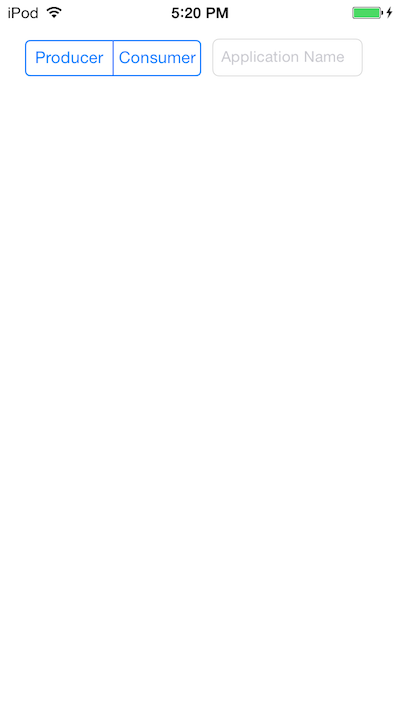
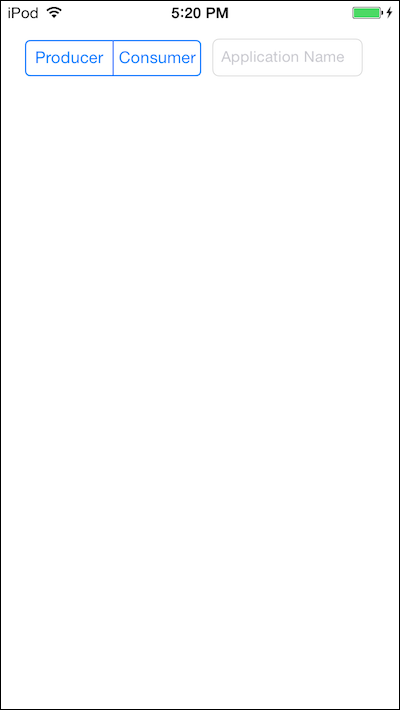
ASABASE-668 Documentation and Process for
... Notification Samples
clean up spelling mistakes and rephrased some sentences
add additional tips and information about other features of the
  notification sample app for android
update screenshots
add install process and path to notification sample apk. rephrase
  steps
update android notification copy to reflect that of the ios equivalent
update linux notification sample to include example output
add border to ios notification app screenshots
minor cleanup changes
update scripts, paths and output in base thin notification sample
  guide
fix use of wrong environment variable in path

Changed region(s): [[0.0, 0.0, 1.0, 1.0], [0.0, 0.0, 0.03, 0.031]]

diff --git a/docs/develop/run-sample-apps/notification/linux.md b/docs/develop/run-sample-apps/notification/linux.md
@@ -11,22 +11,103 @@ export AJ_ROOT=`pwd`
 
 # <TARGET CPU> can be either x86_64, x86, or whatever value you set for "CPU=" when running SCons.
 export TARGET_CPU=x86
-            
-export LD_LIBRARY_PATH=$AJ_ROOT/core/alljoyn/build/linux/$TARGET_CPU/debug/dist/cpp/lib:$AJ_ROOT/core/alljoyn/build/linux/$TARGET_CPU/debug/dist/about/lib:$AJ_ROOT/core/alljoyn/build/linux/$TARGET_CPU/debug/dist/notification/lib:$AJ_ROOT/core/alljoyn/build/linux/$TARGET_CPU/debug/dist/services_common/lib:$LD_LIBRARY_PATH
+
+CPP_LIB=$AJ_ROOT/core/alljoyn/build/linux/$TARGET_CPU/debug/dist/cpp/lib
+NOTIFICATION_LIB=$AJ_ROOT/core/alljoyn/build/linux/$TARGET_CPU/debug/dist/notification/lib
+SERVICES_COMMON_LIB=$AJ_ROOT/core/alljoyn/build/linux/$TARGET_CPU/debug/dist/services_common/lib
+
+export LD_LIBRARY_PATH=$CPP_LIB:$NOTIFICATION_LIB:$SERVICES_COMMON_LIB:$LD_LIBRARY_PATH
+```
+
+### Run the ProducerBasic Sample App
+
+In one of the terminal windows, run `ProducerBasic`:
+
+```sh
+$AJ_ROOT/core/alljoyn/build/linux/$TARGET_CPU/debug/dist/notification/bin/ProducerBasic
+```
+
+The output from `ProducerBasic` should look like this:
+```
+$AJ_ROOT/core/alljoyn/build/linux/$TARGET_CPU/debug/dist/notification/bin/ProducerBasic
+lstat: No such file or directory
+   0.210 TRACE    Notification external         .../NotificationService.cc:62 | NotificationService::initSend
+   0.210 TRACE    Notification external         ...n/cpp/src/Transport.cc:175 | Transport::startSenderTransport
+   0.211 TRACE    Notification external         ...n/cpp/src/Transport.cc:414 | Transport::cleanupNotificationProducerReceiverInternal start
+   0.211 TRACE    Notification external         ...n/cpp/src/Transport.cc:420 | Transport::cleanupNotificationProducerReceiverInternal end
+   0.211 TRACE    Notification external         ...n/cpp/src/Transport.cc:527 | Transport::cleanupNotificationProducerSender start
+   0.211 TRACE    Notification external         ...ionProducerReceiver.cc:106 | NotificationProducerReceiver::ReceiverThreadWrapper()
+   0.212 DEBUG    Notification external         ...n/cpp/src/Transport.cc:222 | Transport::startSenderTransport - registered NotificationProducerReceiver successfully.
+   0.213 DEBUG    Notification external         ...n/cpp/src/Transport.cc:237 | bind Session Port successfully for notification producer service
+   0.213 TRACE    Notification external         ...n/cpp/src/Transport.cc:459 | Transport::cleanupNotificationDismisserReceiverInternal start
+   0.213 TRACE    Notification external         ...n/cpp/src/Transport.cc:465 | Transport::cleanupNotificationDismisserReceiverInternal end
+   0.213 DEBUG    Notification external         ...ationDismisserSender.cc:47 | NotificationDismisserSender()  - Got objectpath=/notificationDismisser
+   0.213 TRACE    Notification external         ...n/cpp/src/Transport.cc:260 | Started Sender successfully
+   0.214 TRACE    Notification external         ...c/NotificationSender.cc:51 | Send Message called
+   0.214 DEBUG    Notification external         .../src/PayloadAdapter.cc:424 | Attempting to send messageId: 1879962717
+   0.215 DEBUG    Notification external         ...ionTransportProducer.cc:65 | Sent signal successfully
+   0.215 HL_DBG   Notification external         .../src/PayloadAdapter.cc:429 | Message sent successfully with messageId: 1879962717
+Notification sent!
+Hit Ctrl+C to exit the application
 ```
 
 ### Run the ConsumerService Sample App
 
-In one of the terminal windows, run `ConsumerService`:
+In the other terminal window, run `ConsumerService`:
 
 ```sh
 $AJ_ROOT/core/alljoyn/build/linux/$TARGET_CPU/debug/dist/notification/bin/ConsumerService
 ```
 
-### Run the ProducerBasic Sample App
+The output from `ConsumerService` should look like this:
+```
+$AJ_ROOT/core/alljoyn/build/linux/$TARGET_CPU/debug/dist/notification/bin/ConsumerService
+Begin Consumer Application. (Press CTRL+C to end application)
+Enter in a list of app names (separated by ';') you would like to receive notifications from.
+Empty list means all app names.
 
-In the other terminal window, run `ProducerBasic`:
+1.408 DEBUG    Notification external         ...NotificationService.cc:208 | Init receive
+1.408 DEBUG    Notification external         ...ionTransportConsumer.cc:73 | Registered the SignalHandler successfully
+1.408 DEBUG    Notification external         ...n/cpp/src/Transport.cc:292 | Match String is: type='signal',sessionless='t',interface='org.alljoyn.Notification'
+1.409 TRACE    Notification external         ...n/cpp/src/Transport.cc:414 | Transport::cleanupNotificationProducerReceiverInternal start
+1.409 TRACE    Notification external         ...n/cpp/src/Transport.cc:420 | Transport::cleanupNotificationProducerReceiverInternal end
+1.410 TRACE    Notification external         ...ionDismisserReceiver.cc:42 | NotificationDismisserReceiver::NotificationDismisserReceiver() - called()
+1.410 DEBUG    Notification external         ...ionDismisserReceiver.cc:79 | Registered the SignalHandler successfully
+1.410 DEBUG    Notification external         ...n/cpp/src/Transport.cc:333 | NotificationDismisserReceiver Match String is: type='signal',sessionless='t',interface='org.alljoyn.Notification.Dismisser'
+1.413 TRACE    Notification external         ...n/cpp/src/Transport.cc:459 | Transport::cleanupNotificationDismisserReceiverInternal start
+1.413 TRACE    Notification external         ...n/cpp/src/Transport.cc:465 | Transport::cleanupNotificationDismisserReceiverInternal end
+1.413 DEBUG    Notification external         ...ationDismisserSender.cc:47 | NotificationDismisserSender()  - Got objectpath=/notificationDismisser
+1.413 DEBUG    Notification external         ...n/cpp/src/Transport.cc:364 | Started Receiver successfully
+Waiting for notifications.
+1.679 ****** ERROR IPNS    IpNameServiceImpl .../IpNameServiceImpl.cc:7650 | Ignoring advertisement from 192.168.1.93 for 192.168.2.136 received on en0: ER_WARNING
+1.976 ****** ERROR IPNS    IpNameServiceImpl .../IpNameServiceImpl.cc:7650 | Ignoring advertisement from 192.168.1.93 for 192.168.2.136 received on en0: ER_WARNING
+1.977 ****** ERROR IPNS    IpNameServiceImpl .../IpNameServiceImpl.cc:7650 | Ignoring advertisement from 192.168.1.93 for 192.168.2.136 received on en0: ER_WARNING
+1.978 ****** ERROR IPNS    IpNameServiceImpl .../IpNameServiceImpl.cc:7650 | Ignoring advertisement from 192.168.1.93 for 192.168.2.136 received on en0: ER_WARNING
+2.474 DEBUG    Notification lepDisp1_1       ...ionTransportConsumer.cc:84 | Received Message from producer.
+******************** Begin New Message Received ********************
+Message Id: 1814180121
+Device Id: ProducerBasic
+Device Name: ProducerBasic
+App Id: 30464642393946452D374141382D3432
+App Name: DISPLAY_ALL
+Sender BusName: :_FVRAlI2.2
+Message Type 0 emergency
+Notification version: 2
+Language: en  Message: hello world
+Other parameters included:
+OriginalSender: :_FVRAlI2.2
+******************** End New Message Received ********************
 
-```sh
-$AJ_ROOT/core/alljoyn/build/linux/$TARGET_CPU/debug/dist/notification/bin/ProducerBasic
+Notification action (0-Nothing 1-Dismiss):
+2.910 ****** ERROR IPNS    IpNameServiceImpl .../IpNameServiceImpl.cc:7650 | Ignoring advertisement from 192.168.1.93 for 192.168.2.136 received on en0: ER_WARNING
+3.207 ****** ERROR IPNS    IpNameServiceImpl .../IpNameServiceImpl.cc:7650 | Ignoring advertisement from 192.168.1.93 for 192.168.2.136 received on en0: ER_WARNING
+3.208 ****** ERROR IPNS    IpNameServiceImpl .../IpNameServiceImpl.cc:7650 | Ignoring advertisement from 192.168.1.93 for 192.168.2.136 received on en0: ER_WARNING
+3.511 ****** ERROR IPNS    IpNameServiceImpl .../IpNameServiceImpl.cc:7650 | Ignoring advertisement from 192.168.1.93 for 192.168.2.136 received on en0: ER_WARNING
+5.355 ****** ERROR IPNS    IpNameServiceImpl .../IpNameServiceImpl.cc:7650 | Ignoring advertisement from 192.168.1.93 for 192.168.2.136 received on en0: ER_WARNING
+5.362 ****** ERROR IPNS    IpNameServiceImpl .../IpNameServiceImpl.cc:7650 | Ignoring advertisement from 192.168.1.93 for 192.168.2.136 received on en0: ER_WARNING
+5.363 ****** ERROR IPNS    IpNameServiceImpl .../IpNameServiceImpl.cc:7650 | Ignoring advertisement from 192.168.1.93 for 192.168.2.136 received on en0: ER_WARNING
+5.364 ****** ERROR IPNS    IpNameServiceImpl .../IpNameServiceImpl.cc:7650 | Ignoring advertisement from 192.168.1.93 for 192.168.2.136 received on en0: ER_WARNING
+0
+Nothing planed to do with the notification message id:1814180121
+End handling notification!!!
 ```

diff --git a/docs/develop/run-sample-apps/notification/thin-linux.md b/docs/develop/run-sample-apps/notification/thin-linux.md
@@ -13,77 +13,45 @@
    # <TARGET CPU> can be either x86_64, x86, or whatever value you set for CPU= when running SCons.
    export TARGET_CPU=<TARGET CPU>
    cd $AJ_ROOT/core/alljoyn/build/linux/$TARGET_CPU/release/dist/cpp/bin
+   
+   BASE_THIN_DIST_LIB=$AJ_ROOT/services/base_tcl/dist/lib
+   CORE_THIN_DIST_LIB=$AJ_ROOT/core/ajtcl/dist/lib
 
-   export LD_LIBRARY_PATH=`pwd`/../lib:$LD_LIBRARY_PATH
+   export LD_LIBRARY_PATH=`pwd`/../lib:$BASE_THIN_DIST_LIB:$CORE_THIN_DIST_LIB:$LD_LIBRARY_PATH
    # This sets the library path to load the liballjoyn.so shared library.
 
     ./alljoyn-daemon &
     ```
 
-3. Launch NotificationConsumerSample (in a new terminal).
+3. Launch NotificationConsumerSample (in a new terminal). Ensure LD_LIBRARY_PATH is set as above.
 
    ```sh
-   cd $AJ_ROOT/services/sample_apps/build/
+   cd $AJ_ROOT/services/base_tcl/build/release/samples
    ./NotificationConsumerSample
    ```
 
-4. Launch NotificationProducerSample (in a new terminal).
+4. Launch NotificationProducerSample (in a new terminal). Ensure LD_LIBRARY_PATH is set as above.
 
    ```sh
-   cd $AJ_ROOT/services/sample_apps/build/
+   cd $AJ_ROOT/services/base_tcl/build/release/samples
    ./NotificationProducerSample
    ``` 
 
-The output from NotificationProducerSample should look like this:
-
-```
-./NotificationProducerSample 
-000.000 PropertyStore.c:201 Set key [DeviceId] defaultValue [e7471a6ad4761b17ad169a3146fe6d1a]
-000.000 PropertyStore.c:148 Has key [DeviceName] default Value []
-000.000 PropertyStore.c:201 Set key [DeviceName] defaultValue [COMPANY GENERIC BOARD 6fe6d1a]
-000.000 PropertyStore.c:144 Has key [DeviceName] runtime Value [COMPANY GENERIC BOARD 6fe6d1a]
-Attempting to connect to bus 'org.alljoyn.BusNode'
-Connected to Routing Node with BusUniqueName=:yEmGBABV.3
-001.084 NotificationProducer.c:512 In SendNotification
-001.084 PropertyStore.c:144 Has key [DeviceId] runtime Value [e7471a6ad4761b17ad169a3146fe6d1a]
-001.084 PropertyStore.c:148 Has key [DefaultLanguage] default Value [en]
-001.084 PropertyStore.c:144 Has key [DeviceName] runtime Value [COMPANY GENERIC BOARD 6fe6d1a]
-001.084 PropertyStore.c:144 Has key [AppId] runtime Value [e7471a6ad4761b17ad169a3146fe6d1a]
-001.084 PropertyStore.c:148 Has key [AppName] default Value [Notifier]
-001.084 NotificationProducer.c:560 Generating random number for notification id
-001.084 NotificationProducer.c:481 In SendNotifySignal
-001.084 NotificationProducer.c:493 ***************** Notification id 860073951 delivered successfully with serial number 5 *****************
-AllJoyn disconnect
-```
+   This won't produce output (run the sample from ```$AJ_ROOT/services/base_tcl/build/debug/samples``` for output)
 
 The output from NotificationConsumerSample should look like this:
 
 ```
 ./NotificationConsumerSample 
-Attempting to connect to bus 'org.alljoyn.BusNode'
-Connected to Routing Node with BusUniqueName=:yEmGBABV.2
-000.000 NotificationConsumer.c:167 In SetSignalRules()
-000.000 NotificationConsumer.c:168 Adding Dismisser interface match.
-000.000 NotificationConsumer.c:176 Adding Notification interface match.
-000.000 NotificationConsumer.c:208 Adding Superagent interface match.
-000.099 aj_msg.c:1087 Discarding bad message AJ_ERR_NO_MATCH
-000.136 aj_msg.c:1087 Discarding bad message AJ_ERR_NO_MATCH
-000.136 aj_msg.c:1087 Discarding bad message AJ_ERR_NO_MATCH
-024.480 NotificationConsumer.c:749 Received Producer signal.
-024.480 NotificationConsumer.c:287 Received notification signal from sender :yEmGBABV.3
-024.480 aj_msg.c:1195 AJ_UnmarshalMsg(): AJ_ERR_NO_MORE
-024.480 aj_msg.c:1195 AJ_UnmarshalMsg(): AJ_ERR_NO_MORE
-024.480 aj_msg.c:1195 AJ_UnmarshalMsg(): AJ_ERR_NO_MORE
-024.480 aj_msg.c:1195 AJ_UnmarshalMsg(): AJ_ERR_NO_MORE
 ******************** Begin New Message Received ********************
-Message Id: 860073951
+Message Id: 1000189632
 Version: 2
-Device Id: e7471a6ad4761b17ad169a3146fe6d1a
-Device Name: COMPANY GENERIC BOARD 6fe6d1a
-App Id: BC096200000000001F01000003000000
-App Name: Notifier
+Device Id: 1609870266dc3e02f926ef98623b5126
+Device Name: COMPANY GENERIC BOARD 23b5126
+App Id: 1609870266DC3E02F926EF98623B5126
+App Name: Company A(EN)
 Message Type: 2
-OriginalSender bus unique name: :yEmGBABV.3
+OriginalSender bus unique name: :qWt-d9Uz.3
 Language: en  Message: Hello AJ World.
 Language: de-AT  Message: Hallo AJ Welt.
 Other parameters included:
@@ -97,8 +65,6 @@ Language: de-AT  Audio URL http://www.getAudio2.org
 Rich Content Icon Object Path: /icon/MyDevice
 Rich Content Audio Object Path: /audio/MyDevice
 ******************** End New Message Received ********************
-036.490 aj_guid.c:76 LookupName(): NULL
-036.491 aj_guid.c:76 LookupName(): NULL
 ```
 
 [build-thin-linux]: /develop/building/thin-linux

diff --git a/docs/develop/run-sample-apps/notification/android.md b/docs/develop/run-sample-apps/notification/android.md
@@ -1,20 +1,36 @@
 # Android - Notification Sample Apps
 
 ## Running Android NotificationServiceUISample
+
+### Prerequisites
+Open a terminal and navigate to the AllJoyn&trade; root dir, then, with an android device connected:
+
+```sh
+export AJ_ROOT=`pwd`
+adb install $AJ_ROOT/services/base/notification/java/sample_applications/android/NotificationServiceUISample/bin/NotificationServiceUISample.apk
+```
+
+### App Flow
 The Android NotificationServiceUISample provides a sample 
-Android implementation of an app that uses the Notification 
-service framework, which allows a user to both send and receive notifications.
+Android implementation of an app that uses the Notification service framework.
+
+You can use the NotificationServiceUISample app to act as a Notification Producer, a Notification Consumer, or both a Producer and Consumer, simultaneously.
+If you run the app as both a producer and consumer simultaneously, you will be able to send and receive notifications on a single Android device.
+
+Alternatively, you can run the app as a Producer on one device, and as a Consumer on another device.
+
+**NOTE:** Both devices must be on the same Wi-Fi network.
 
 1. On two or more devices, load the NotificationServiceUISample.apk, 
 and start app `NotificationService UI Sample`.
 
   ![][1.StartScreen]
 
-2. Check the **Consumer** checkbox for those app instances you want to receive notifications.
+2. Check the **Consumer** checkbox for the app instances which will be receiving notifications.
 
   ![][2.CheckConsumerCheckbox]
 
-3. Check the **Producer** checkbox for those app instances to which you want to send notifications.
+3. Check the **Producer** checkbox for the app instances which will be sending notifications.
 
   ![][3.CheckProducerCheckbox]
 
@@ -27,6 +43,17 @@ display the notification text and message type.
 
   ![][5.ConsumerReceivesHelloWorld]
 
+## Additional Tips
+You can select received notifications from the list to dismiss them or execute an action. Dismissing the notification will stop
+the producer from broadcasting the notification. Executing an action will toggle a remote bus objects boolean and display a toast indicating its current state.
+
+To receive a notification in a different language change the consumer language dropdown to your preferred choice. Note, this will not update
+notifications that were previously received and are currently displayed in the list.
+To send a notification in a different language, use the secondary message input and select the language of choice from the producers dropdown.
+
+To see an example of a notification with a url and object path select the audio or icon checkboxes before sending a notification from the producer.
+
+Pressing the "Delete" button will stop the producer from broadcasting the notification with the currently selected message type.
 
 [1.StartScreen]: /files/develop/run-sample-apps/android-notification-sample/1.StartScreen.png
 [2.CheckConsumerCheckbox]: /files/develop/run-sample-apps/android-notification-sample/2.CheckConsumerCheckbox.png

diff --git a/docs/learn/base-services/notification/index.md b/docs/learn/base-services/notification/index.md
@@ -81,16 +81,16 @@ is encouraged to fetch the control panel at the object path and render
 it to the user. Typically this is done to allow the consumer to perform
 an action associated with a notification.
 
-An example is if the oven has been left on for some, in addition to
-sending a notification, it can include a control panel to be rendered
-to provide to the user the option of turning off the oven.
+For example, the oven has been left on for some time. In addition to
+sending a notification, a control panel (to be rendered by the app)
+may be provided to the user to give them the option of turning off the oven.
 
 ### Custom Attributes
 
 A notification can contain any number of custom key/value pair attributes.
 The Consumer can optionally use this information to display a richer
 notification. Custom attributes are application-specific, so
-the Consumer needs to have special informationa about the
+the Consumer needs to have special information about the
 Producer in order to properly use the custom attributes
 
 As an example, imagine a radio sent a notification every time a
@@ -100,7 +100,7 @@ album art URL. A normal Consumer would receive the notification
 and only display the notification text, that is, the artist and
 title. But a Consumer that is aware of this Producer, could also
 get the album art URL and display that along with the
-notification text to provide a richer custom notificaiton.
+notification text to provide a richer custom notification.
 
 ## How It Works
 
@@ -113,8 +113,8 @@ the notification:
 
 * A concept of a TTL.
 
-* A mechanism for new Consumers to join the network to be informed
-  of previously broadcasted notifications whose TTL had not expired.
+* A mechanism for new Consumers to join the network and be informed
+  of previously broadcasted notifications whose TTL has not yet expired.
 
 The sessionless signal contains the full notification, including
 all supported languages, and full metadata. Refer to the [Notification
@@ -132,15 +132,15 @@ In summary, this is how things work:
 * Consumers joining the network later will also receive this signal
   and display the information.
 
-* When the TTL expires, the Procuder will stop broadcasting this
+* When the TTL expires, the Producer will stop broadcasting this
   sessionless signal. Consumers will stop displaying the notification
 
 * At any time, a Producer or Consumer can send a sessionless signal
-  to dismiss the notificaiton. Consumers, upon receiving this, will
+  to dismiss the notification. Consumers, upon receiving this, will
   stop displaying the notification.
 
-* A Consumer can connect to the Producer to request that the
-  notification stop being broadcasted.
+* A Consumer can connect to a Producer to request it to stop
+  broadcasting the notification.
 
 ## Learn More
 

diff --git a/docs/develop/run-sample-apps/notification/ios-osx.md b/docs/develop/run-sample-apps/notification/ios-osx.md
@@ -10,7 +10,7 @@ Producer and Consumer, simultaneously. If you run the app
 as both a producer and consumer simultaneously, you will be
 able to send and receive notifications on a single iOS device.
 
-Alternately, you can run the app as a Producer on one device,
+Alternatively, you can run the app as a Producer on one device,
 and as a Consumer on another device.
 
 **NOTE:** Both devices must be on the same Wi-Fi network.
@@ -64,7 +64,7 @@ on the same device or on a different device.
 
   ![][consumer-1]
 
-The application will now receive notifications.
+  The application will now receive notifications.
 
   ![][consumer-2]
 

diff --git a/docs/develop/run-sample-apps/notification/index.md b/docs/develop/run-sample-apps/notification/index.md
@@ -1,6 +1,6 @@
 # Running The Notification Samples
 
-There are two types of Notification sample applications, 
+There are two types of Notification applications, 
 a Producer and a Consumer. The power of the [Notification service framework][learn_notif] 
 is its simplicity and ability to allow devices to "talk" 
 to end users to provide meaningful information.
